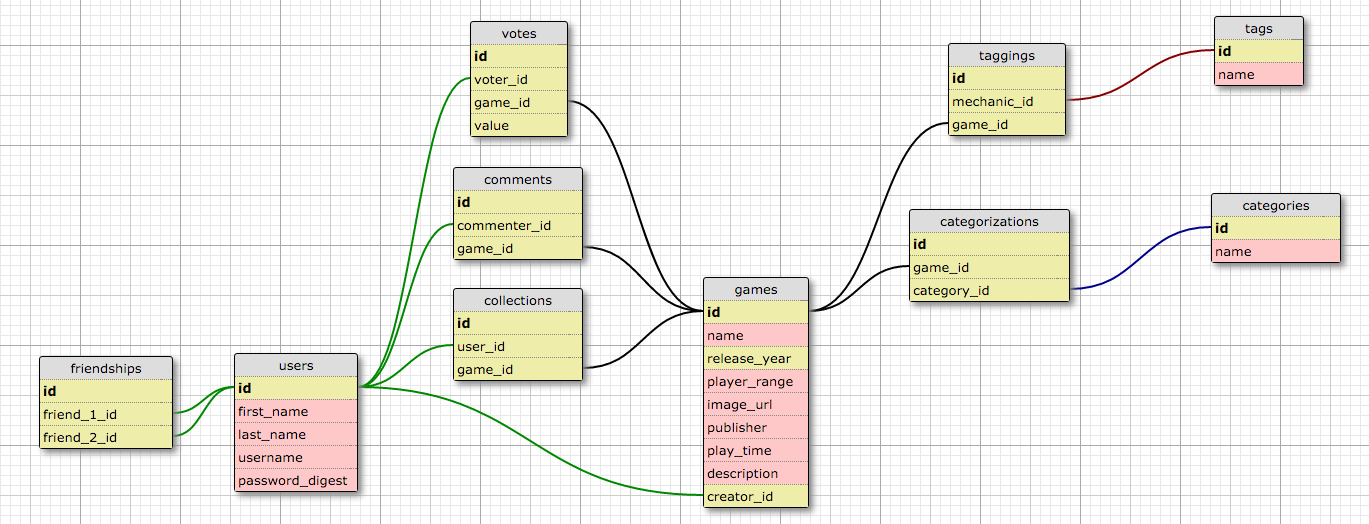
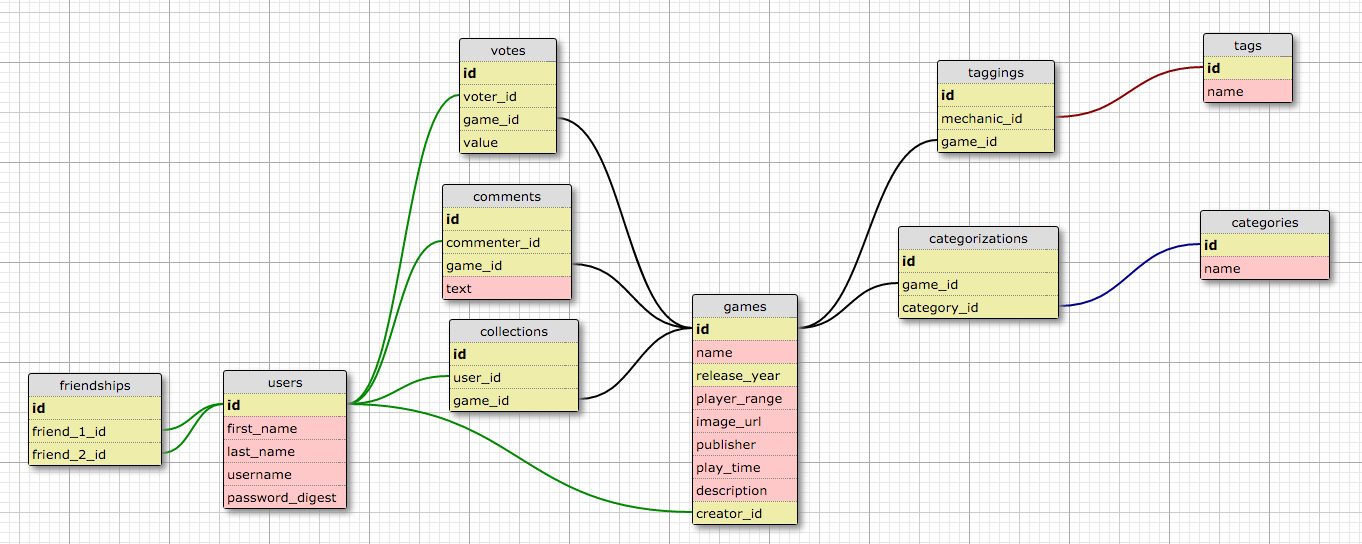
Add authentication/update schema again

diff --git a/app/models/user.rb b/app/models/user.rb
@@ -6,4 +6,7 @@ class User < ActiveRecord::Base
   has_many :created_games, class_name: "Game", foreign_key: :creator_id
   has_many :friendships, foreign_key: :friend_1_id
   has_many :friends, through: :friendships, source: :friend
+
+  validates :username, :first_name, :last_name { presence: true}
+  has_secure_password
 end

diff --git a/db/schema.rb b/db/schema.rb
@@ -39,6 +39,7 @@ ActiveRecord::Schema.define(version: 20160307203143) do
   create_table "comments", force: :cascade do |t|
     t.integer  "commenter_id"
     t.integer  "game_id"
+    t.string   "text"
     t.datetime "created_at",   null: false
     t.datetime "updated_at",   null: false
   end

diff --git a/app/models/game.rb b/app/models/game.rb
@@ -5,4 +5,8 @@ class Game < ActiveRecord::Base
   has_many :categories, through: :categorizations
   has_many :votes
   has_many :comments
+
+  validates :name, :description
+  validates :release_year, length: { is: 4 }
+
 end

diff --git a/db/migrate/20160307200322_create_comments.rb b/db/migrate/20160307200322_create_comments.rb
@@ -3,6 +3,7 @@ class CreateComments < ActiveRecord::Migration
     create_table :comments do |t|
       t.integer :commenter_id
       t.integer :game_id
+      t.string :text
 
       t.timestamps null: false
     end

diff --git a/app/models/comment.rb b/app/models/comment.rb
@@ -1,4 +1,6 @@
 class Comment < ActiveRecord::Base
   belongs_to :game
   belongs_to :commenter, class_name: "User"
+
+  validates :text, presence: true
 end
